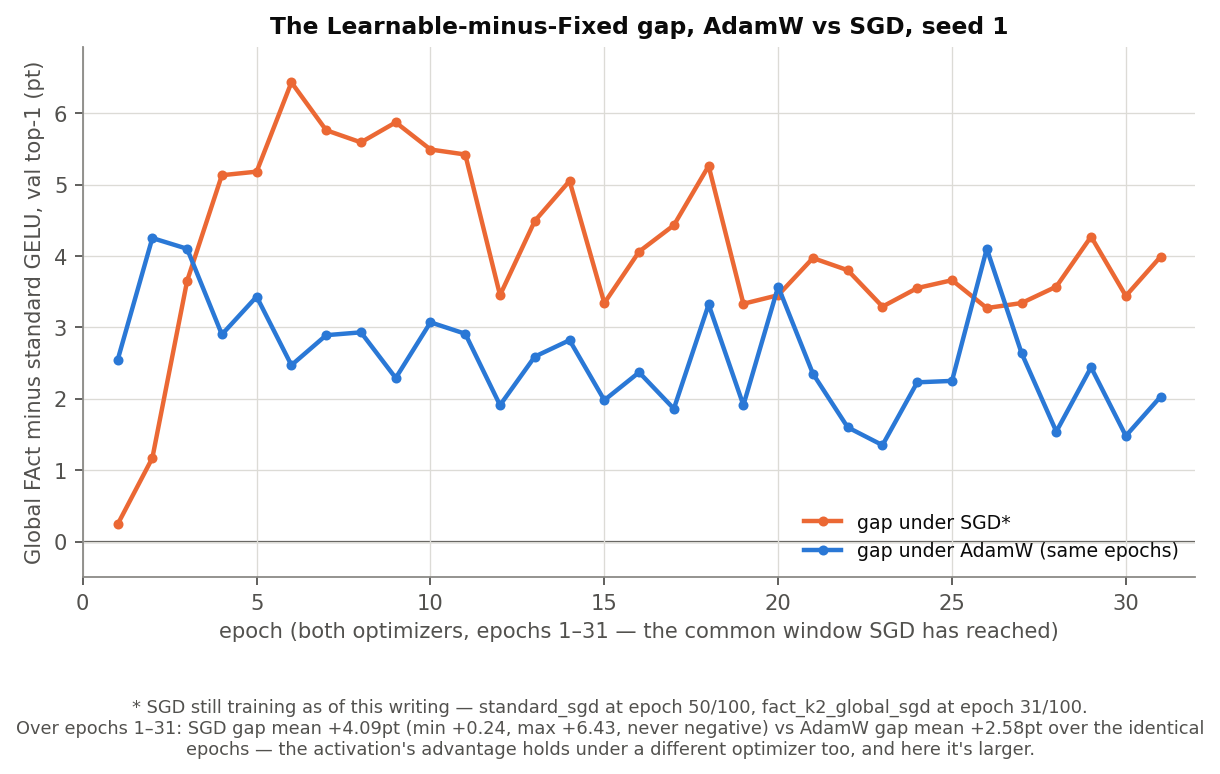
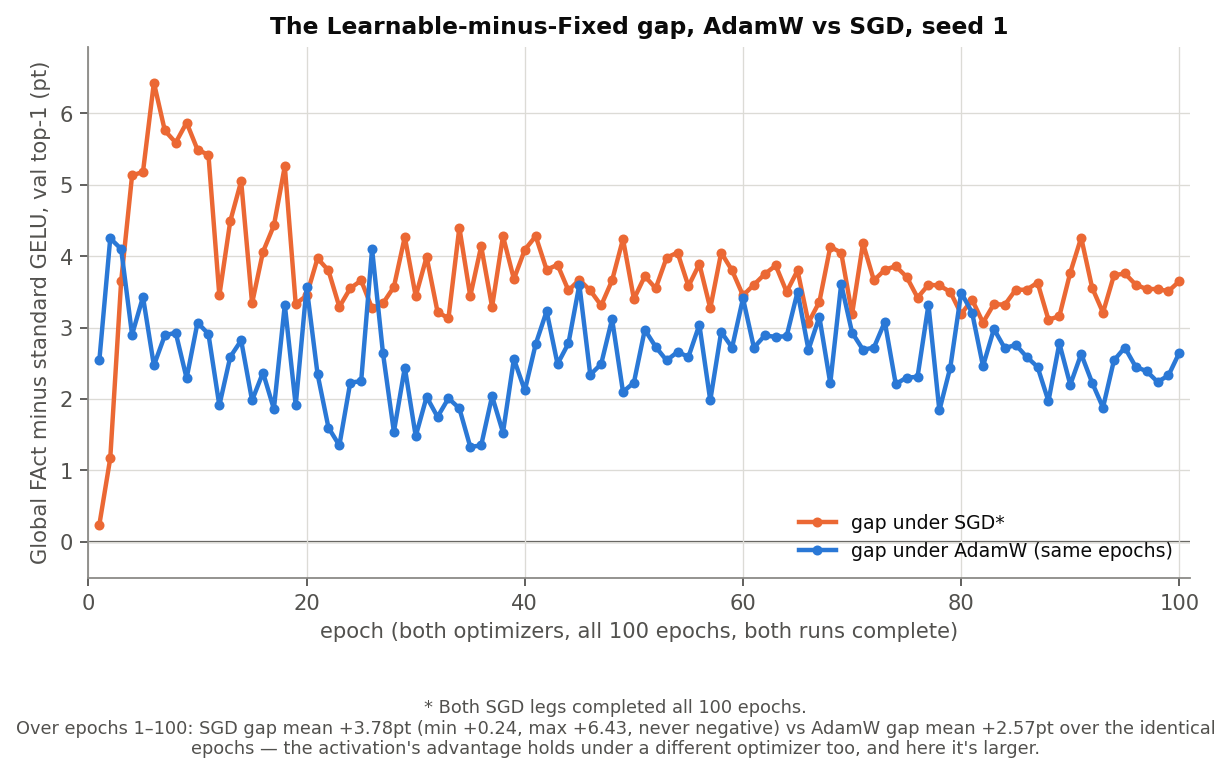
Retitle to "One Activation for the Whole Network"; complete the SGD section
Aligns the post title with the study's paper title.

Both SGD legs (seed 1) have now finished all 100 epochs, so the optimizer
section no longer reports a mid-flight 31-epoch window:
  * SGD gap over all 100 epochs: mean +3.78pt (min +0.24, max +6.43),
    never negative, vs AdamW's +2.57pt over the identical epochs
  * Learnable reaches Fixed's full 100-epoch best at epoch 67 under SGD
  * SGD never catches AdamW in absolute terms: 53.01% vs 65.18% (Fixed),
    56.65% vs 67.68% (Learnable)

fig_sgd_gap.png regenerated from the completed logs (was 31 epochs, now 100).

diff --git a/_posts/2026-08-11-learnable-activations-might-have-better-loss-landscape.md b/_posts/2026-08-11-learnable-activations-might-have-better-loss-landscape.md
@@ -1,5 +1,5 @@
 ---
-title: "Five Parameters, a Different Optimization Geometry"
+title: "One Activation for the Whole Network"
 date: 2026-08-11
 tags: [Deep-Learning, Research]
 excerpt: "One learnable nonlinearity, shared by every layer, tested head-to-head against a standard fixed activation on real ImageNet-1K."
@@ -26,9 +26,9 @@ Quick findings:
   fixed activation's, in every one of the 6 transformer blocks (weight-space
   evidence, not a direct Hessian measurement — details below).
 - Swap the optimizer from AdamW to SGD and the **Learnable-over-Fixed gap
-  still holds** — at every matched epoch so far, with a mean margin even
-  larger than under AdamW (run still **in progress**; details below). That's
-  evidence it's the *activation*, not the optimizer, doing the work.
+  still holds** — at **all 100 epochs**, with a mean margin even larger than
+  under AdamW (+3.78pt vs +2.57pt). That's evidence it's the *activation*,
+  not the optimizer, doing the work.
 
 <!--more-->
 
@@ -202,33 +202,39 @@ Everything above uses AdamW. The obvious challenge: maybe the +2pp gain is an
 AdamW artifact — some interaction between the learnable coefficients and
 Adam's per-parameter adaptive updates — rather than a property of the
 activation itself. If that were true, swapping in a different optimizer
-should shrink or erase the gap. So the same seed-1 comparison is running
+should shrink or erase the gap. So the same seed-1 comparison was re-run
 under plain SGD (lr=0.05, momentum 0.9, Nesterov) instead, for both variants.
-Both legs are **still in progress** as of this writing — standard_sgd_seed1
-at epoch 51/100, fact_k2_global_sgd_seed1 at epoch 31/100 — so this measures
-the gap over the first 31 epochs both have reached, not a finished 100-epoch
-comparison.
+**Both legs have now finished all 100 epochs** — an earlier version of this
+section reported them mid-flight, over the first 31 epochs; what follows is
+the completed comparison.
 
-<img src="/images/Learnable-Activations-Might-Have-Better-Loss-Landscape/fig_sgd_gap.png" alt="The Learnable-minus-Fixed validation accuracy gap, AdamW vs SGD, over the first 31 matched epochs, seed 1" style="max-width:100%">
+<img src="/images/Learnable-Activations-Might-Have-Better-Loss-Landscape/fig_sgd_gap.png" alt="The Learnable-minus-Fixed validation accuracy gap, AdamW vs SGD, over all 100 matched epochs, seed 1" style="max-width:100%">
 
-**The gap survives the optimizer swap, and it's larger, not smaller.** Over
-epochs 1–31, Learnable beats Fixed at every single epoch under SGD too — mean
-gap +4.09pt (min +0.24, max +6.43, never negative), against a +2.58pt mean
-for AdamW over the identical 31 epochs. Two optimizers with unrelated update
-rules, different learning rates, different implicit biases — same qualitative
-result, same direction, same "never negative" pattern the AdamW comparison
-showed on 4 of its 5 seeds. That's the actual validation this section is
-after: the advantage isn't riding on AdamW's adaptive moments, it's coming
-from the shape of the nonlinearity itself.
+**The gap survives the optimizer swap, and it's larger, not smaller.** Across
+all 100 epochs, Learnable beats Fixed at every single epoch under SGD too —
+mean gap +3.78pt (min +0.24, max +6.43, never negative), against a +2.57pt
+mean for AdamW over the identical epochs. Two optimizers with unrelated
+update rules, different learning rates, different implicit biases — same
+qualitative result, same direction, same "never negative" pattern the AdamW
+comparison showed on 4 of its 5 seeds. That's the actual validation this
+section is after: the advantage isn't riding on AdamW's adaptive moments,
+it's coming from the shape of the nonlinearity itself. The partial-run
+numbers held up: the mean SGD gap settled from +4.09pt over the first 31
+epochs to +3.78pt over all 100, still comfortably above AdamW's.
+
+Under SGD the crossover is earlier, too. Learnable reaches Fixed's *entire
+100-epoch* best validation accuracy at **epoch 67** — a third of the schedule
+left over, against the epoch-83 crossover the AdamW runs showed.
 
 One separate fact worth stating plainly, so it isn't lost inside the good
-news above: SGD is *converging more slowly than AdamW in absolute terms* for
-both variants under these particular hyperparameters — at epoch 31, standard
-sits at 41.4% (SGD) vs 50.7% (AdamW), and fact_k2_global sits at 45.4% (SGD)
-vs 52.7% (AdamW). That's a statement about optimizer speed, not about the
-activation, and it's orthogonal to the gap result above — a slower-converging
-optimizer can still show a larger relative advantage for Learnable at matched
-epochs, which is exactly what's happening here. Whether SGD's absolute level
-catches up to AdamW's by epoch 100, and whether the Learnable-over-Fixed gap
-holds all the way there, is what the rest of this run will answer — this
-section will be updated once it completes.
+news above: SGD *converged more slowly than AdamW in absolute terms* for both
+variants under these particular hyperparameters, and it never caught up.
+Final validation accuracy: Fixed 53.01% (SGD) vs 65.18% (AdamW), Learnable
+56.65% (SGD) vs 67.68% (AdamW). That's a statement about optimizer speed, not
+about the activation, and it's orthogonal to the gap result above — a
+slower-converging optimizer can still show a larger relative advantage for
+Learnable at matched epochs, which is exactly what happened. So the question
+this section used to leave open now has both halves answered: the
+Learnable-over-Fixed gap holds all the way to epoch 100, and SGD's absolute
+level does not close on AdamW's. These are single-seed results, unlike the
+five-seed AdamW comparison above, so they carry correspondingly less weight.
